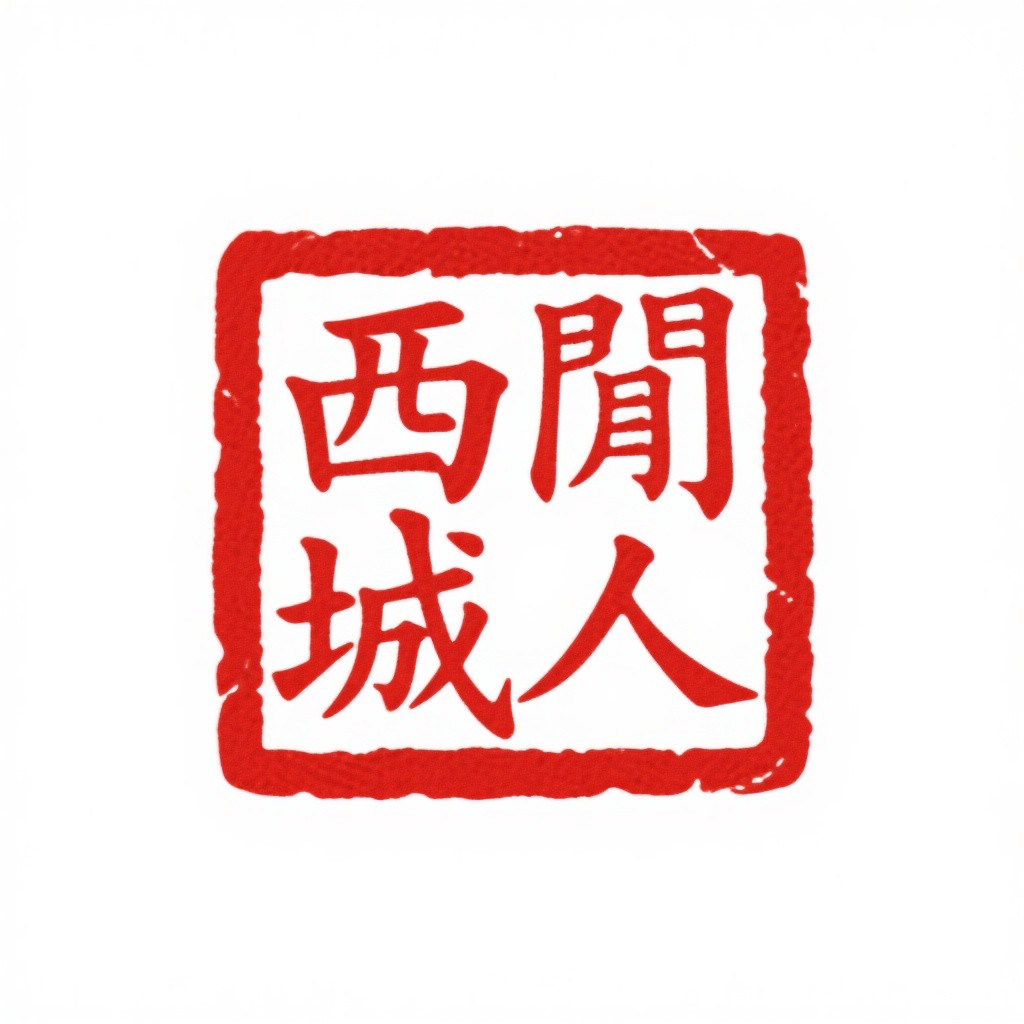
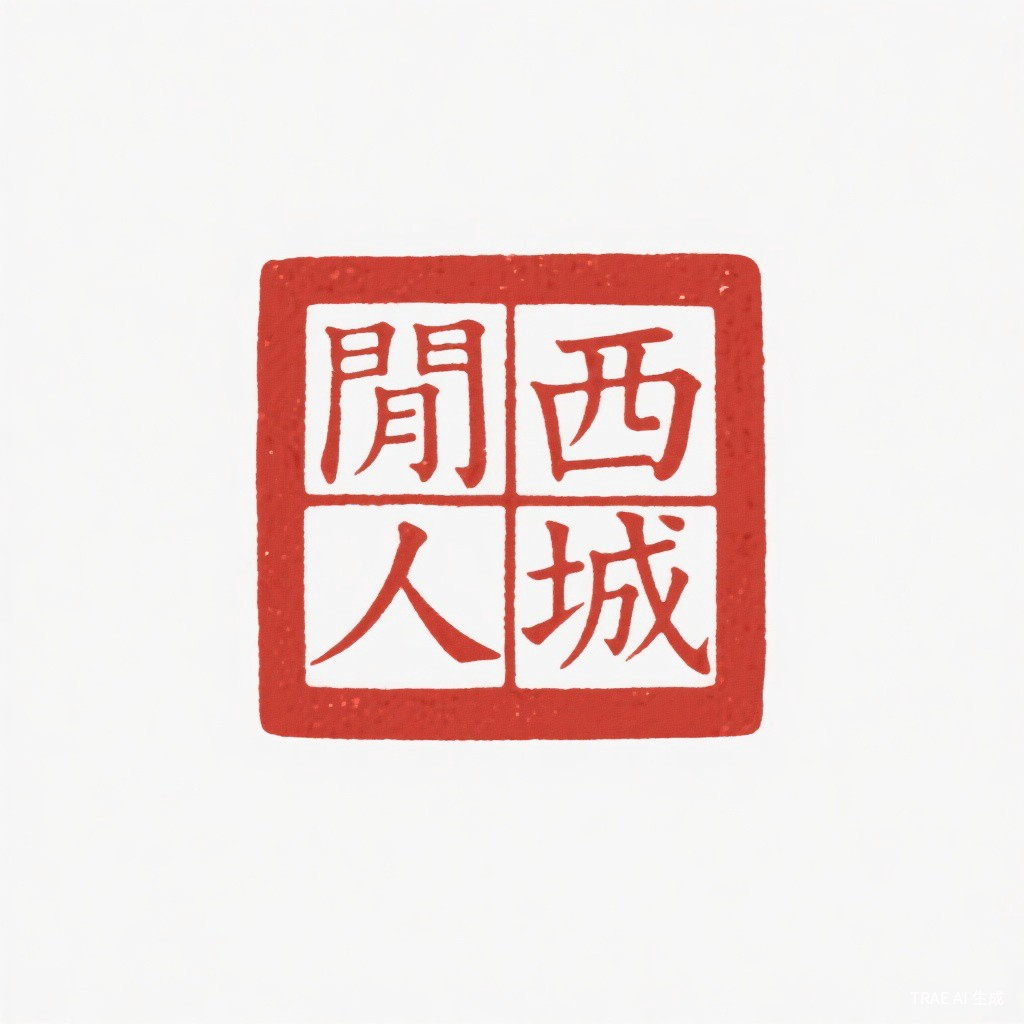
fix: update seal with correct character order and larger size

Changed region(s): [[0.1875, 0.2188, 0.8125, 0.7812]]

diff --git a/README.md b/README.md
@@ -22,7 +22,7 @@
 
 <br><br>
 
-<img src="https://raw.githubusercontent.com/LEE20260315/mcp-hub/main/docs/assets/seal-xicheng.jpg" alt="西城閒人" width="56"/>
+<img src="https://raw.githubusercontent.com/LEE20260315/mcp-hub/main/docs/assets/seal-xicheng.jpg" alt="西城閒人" width="72"/>
 
 <br></div>
 
@@ -149,7 +149,7 @@ LARK_APP_SECRET=xxxxxxxx
 ---
 
 <div align="center">
-<img src="https://raw.githubusercontent.com/LEE20260315/mcp-hub/main/docs/assets/seal-xicheng.jpg" alt="西城閒人" width="48"/>
+<img src="https://raw.githubusercontent.com/LEE20260315/mcp-hub/main/docs/assets/seal-xicheng.jpg" alt="西城閒人" width="64"/>
 <br>
 <sub>紙以承墨，墨以載意，意以馭器。</sub><br>
 <sub>西城閒人 · 識</sub><br>